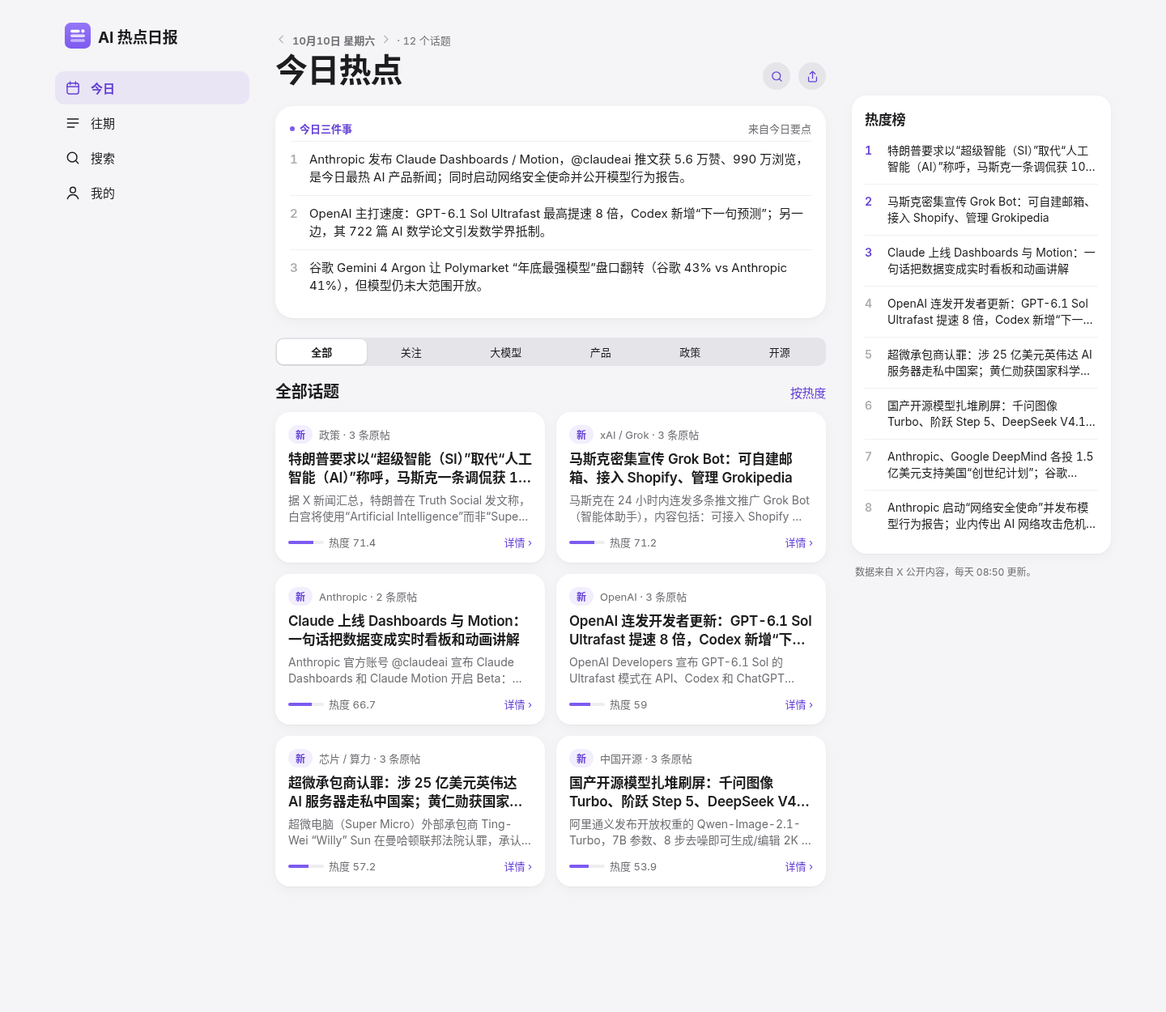
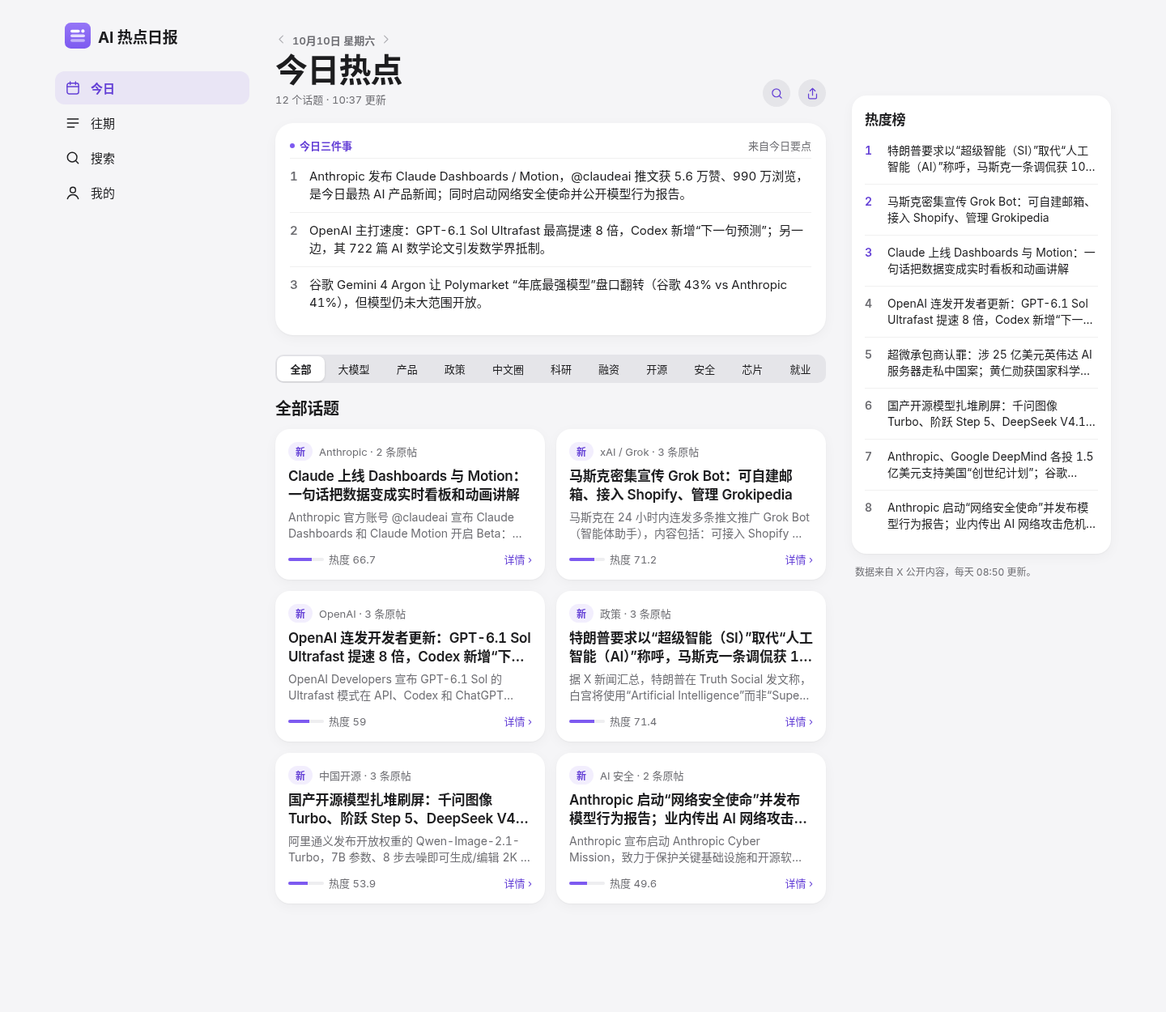
docs(design): 往期/搜索/我的 + F4、F5 设计稿 v1 (#20)
* docs(design): 往期/搜索/我的 + F4 关注、F5 周报设计稿 v1；首页去掉'按热度'改按 rank (refs #11 #12)

* docs(design): 往期空状态里的最早日期改为动态读取 (refs #11 #12)

* docs(design): #20 复核修改：补 404 两种状态；说明文字改 text-2，灰底文字 #636369；删除热门搜索词；mockup 日期改为从数据计算 (refs #11 #12)

* docs(design): 新增 text-on-fill token（浅 #636369 / 深 #A1A1A6）；标签栏选中文字用 brand-text；text-3 不再用于文字

* docs(design): 高保真首页卡片按 rank 排序（热度榜仍按 heat），重新生成首页基准截图

* docs(design): mockup 对齐 token 规范（底栏选中 brand-text、序号 text-2、灰底文字 text-on-fill），首页筛选和话题数与 F1 对齐，重新生成全部基准截图

* docs(design): 搜索框清除按钮底圆改 text-2（与 #24 规范一致）

---------

diff --git a/docs/design/pages-mockup.html b/docs/design/pages-mockup.html
@@ -1,0 +1,143 @@
+<!doctype html><html><head><meta charset="utf-8"><style>
+*{box-sizing:border-box;margin:0;padding:0}
+:root{--bg:#F5F5F7;--surface:#fff;--s2:rgba(118,118,128,.12);--sep:rgba(0,0,0,.06);--text:#1D1D1F;--t2:#6E6E73;--t3:#AEAEB2;--brand:#7D5AF0;--bt:#6440D6;--bs:rgba(125,90,240,.10);--onb:#fff;--hot:#FF9500;--ht:#B45309;--up:#34C759;--ut:#1F7A36;--sh:0 1px 2px rgba(0,0,0,.04),0 4px 16px rgba(0,0,0,.04);--nav:rgba(245,245,247,.82);--segon:#fff}
+.dark{--bg:#000;--surface:#1C1C1E;--s2:rgba(118,118,128,.24);--sep:rgba(255,255,255,.08);--text:#F5F5F7;--t2:#98989D;--t3:#636366;--brand:#A88BFF;--bt:#A88BFF;--bs:rgba(168,139,255,.18);--onb:#1C1C1E;--hot:#FF9F0A;--ht:#FF9F0A;--up:#30D158;--ut:#30D158;--sh:none;--nav:rgba(0,0,0,.75);--segon:#636366}
+body{background:var(--bg);color:var(--text);font-family:"Inter","Noto Sans CJK SC",sans-serif;-webkit-font-smoothing:antialiased;font-feature-settings:"tnum"}
+.cl2{display:-webkit-box;-webkit-line-clamp:2;-webkit-box-orient:vertical;overflow:hidden}
+.ic{width:20px;height:20px;stroke:currentColor;fill:none;stroke-width:1.75;stroke-linecap:round;stroke-linejoin:round}
+.logo{display:inline-flex;align-items:center;gap:9px;font-weight:700;letter-spacing:-.3px}
+.pill{display:inline-flex;align-items:center;gap:3px;font-size:12px;font-weight:600;padding:3px 9px;border-radius:99px;white-space:nowrap}
+.new{background:var(--bs);color:var(--bt)}.hotp{background:rgba(255,149,0,.12);color:var(--ht)}
+.ibtn{width:34px;height:34px;border-radius:50%;background:var(--s2);display:flex;align-items:center;justify-content:center;color:var(--bt)}
+.eyebrow{font-size:13px;font-weight:600;color:var(--t2)}
+.lt{font-size:34px;line-height:41px;font-weight:700;letter-spacing:-.8px}
+.hero{background:var(--surface);border-radius:22px;padding:18px;box-shadow:var(--sh)}
+.hero .k{display:flex;align-items:center;justify-content:space-between;font-size:13px;font-weight:600;color:var(--bt);margin-bottom:6px}
+.hero .k span{display:flex;align-items:center;gap:6px}.hero .k i{width:6px;height:6px;border-radius:50%;background:var(--brand)}
+.hero .k em{font-style:normal;color:var(--t2);font-weight:400}
+.hero .it{display:flex;gap:12px;font-size:15px;line-height:22px;padding:11px 0;border-top:.5px solid var(--sep)}
+.hero .it:first-of-type{border:0}.hero .it b{color:var(--t2);font-weight:600;width:12px;flex:none}
+.seg{display:flex;background:var(--s2);border-radius:10px;padding:2px;overflow:hidden}
+.seg span{flex:1 0 auto;text-align:center;font-size:13px;font-weight:500;padding:6px 10px;border-radius:8px;white-space:nowrap}
+.seg .on{background:var(--segon);box-shadow:0 1px 3px rgba(0,0,0,.12);font-weight:600}
+.sec{display:flex;justify-content:space-between;align-items:baseline;font-size:20px;font-weight:700;letter-spacing:-.3px}
+.sec a{font-size:15px;font-weight:400;color:var(--bt)}
+.card{background:var(--surface);border-radius:18px;padding:16px;box-shadow:var(--sh)}
+.meta{display:flex;align-items:center;gap:8px;font-size:13px;color:var(--t2);margin-bottom:8px}
+.card h3{font-size:17px;line-height:23px;font-weight:600;letter-spacing:-.2px;margin-bottom:6px}
+.card p{font-size:14px;line-height:20px;color:var(--t2)}
+.foot{display:flex;justify-content:space-between;align-items:center;margin-top:12px;font-size:13px;color:var(--t2)}
+.heat{display:flex;align-items:center;gap:6px}.bar{width:44px;height:4px;border-radius:2px;background:var(--s2);overflow:hidden}.bar i{display:block;height:100%;background:var(--brand)}
+.more{color:var(--bt)}
+.tab{position:fixed;bottom:0;left:0;right:0;height:83px;background:var(--nav);backdrop-filter:blur(20px);border-top:.5px solid var(--sep);display:flex;justify-content:space-around;padding-top:8px;font-size:10px;font-weight:500;color:var(--t2)}
+.tab div{display:flex;flex-direction:column;align-items:center;gap:3px;width:70px}.tab .on{color:var(--bt)}.tab .on .ic{color:var(--brand)}.tab .ic{width:24px;height:24px}
+/* detail */
+.nb{display:flex;justify-content:space-between;align-items:center;height:44px}
+.back{display:flex;align-items:center;color:var(--bt);font-size:17px}
+.dt{font-size:26px;line-height:32px;font-weight:700;letter-spacing:-.5px}
+.block{background:var(--surface);border-radius:18px;padding:16px;box-shadow:var(--sh)}
+.block .lab{font-size:13px;font-weight:600;color:var(--t2);margin-bottom:6px}
+.block .txt{font-size:15px;line-height:23px}
+.first{display:flex;gap:12px;align-items:center}
+.first .dot{width:40px;height:40px;border-radius:12px;background:var(--bs);display:flex;align-items:center;justify-content:center;color:var(--bt);flex:none}
+.post{display:flex;gap:12px;padding:14px 16px;border-top:.5px solid var(--sep)}.post:first-child{border:0}
+.av{width:36px;height:36px;border-radius:50%;background:var(--s2);display:flex;align-items:center;justify-content:center;font-size:14px;font-weight:700;color:var(--tof);flex:none}
+.post .h{font-size:14px;font-weight:600}.post .h span{font-weight:400;color:var(--t2);margin-left:4px}
+.post .tr{font-size:15px;line-height:22px;margin-top:3px}
+.post .st{display:flex;gap:14px;font-size:12px;color:var(--t2);margin-top:8px}
+.btn{display:flex;align-items:center;justify-content:center;gap:6px;height:50px;border-radius:14px;font-size:17px;font-weight:600}
+.btn.p{background:var(--brand);color:var(--onb)}.btn.s{background:var(--bs);color:var(--bt)}
+.chips{display:flex;gap:8px;flex-wrap:wrap}.chip{font-size:14px;padding:8px 12px;border-radius:12px;background:var(--surface);box-shadow:var(--sh);display:flex;align-items:center;gap:6px}
+/* desktop */
+.dk{display:grid;grid-template-columns:240px 680px 320px;gap:32px;justify-content:center;padding:0 24px}
+.side{position:sticky;top:0;height:100vh;padding:28px 0}
+.nav a{display:flex;align-items:center;gap:12px;padding:10px 12px;border-radius:12px;font-size:15px;font-weight:500;margin-bottom:2px}
+.nav a.on{background:var(--bs);color:var(--bt);font-weight:600}
+.rank .r{display:flex;gap:12px;padding:11px 0;border-top:.5px solid var(--sep);font-size:14px;line-height:20px}.rank .r:first-of-type{border:0}
+.rank b{width:16px;color:var(--t2);font-weight:600}.rank .r:nth-of-type(-n+3) b{color:var(--bt)}
+
+.lrow{display:flex;align-items:center;gap:12px;padding:13px 16px;border-top:.5px solid var(--sep);font-size:15px}.lrow:first-child{border:0}
+.lrow .sub{font-size:13px;color:var(--t2)}.lrow .r{margin-left:auto;color:var(--t3);display:flex;align-items:center;gap:6px;font-size:15px}
+.grp{font-size:13px;font-weight:600;color:var(--t2);margin:22px 4px 8px}
+.ico{width:30px;height:30px;border-radius:8px;display:flex;align-items:center;justify-content:center;color:#fff;flex:none}
+.sf{display:flex;align-items:center;gap:8px;background:var(--s2);border-radius:12px;height:40px;padding:0 12px;color:var(--tof);font-size:16px}
+mark{background:var(--bs);color:var(--bt);border-radius:4px;padding:0 2px}
+.stk{display:flex;height:14px;border-radius:7px;overflow:hidden;gap:2px}
+.tg{display:inline-flex;align-items:center;gap:6px;font-size:14px;padding:7px 12px;border-radius:99px;background:var(--surface);box-shadow:var(--sh)}
+.sheet{position:fixed;left:0;right:0;bottom:0;background:var(--surface);border-radius:22px 22px 0 0;padding:10px 18px 40px}
+.input{height:46px;border-radius:12px;background:var(--s2);display:flex;align-items:center;padding:0 14px;font-size:16px}
+.followhl{box-shadow:inset 0 0 0 1.5px var(--brand),var(--sh)}
+:root{--tof:#636369}.dark{--tof:#A1A1A6}
+</style></head><body><div id="app"></div><script>
+const Q=new URLSearchParams(location.search),view=Q.get('v')||'home',dark=Q.get('t')==='dark';if(dark)document.body.classList.add('dark');
+const I={search:'<circle cx="11" cy="11" r="7"/><path d="M20 20l-3.5-3.5"/>',share:'<path d="M12 3v12M7.5 7.5L12 3l4.5 4.5M5 13v6a2 2 0 002 2h10a2 2 0 002-2v-6"/>',today:'<rect x="3.5" y="4.5" width="17" height="16" rx="3"/><path d="M3.5 9.5h17M8 2.5v4M16 2.5v4"/>',past:'<path d="M4 6h16M4 12h16M4 18h10"/>',me:'<circle cx="12" cy="8" r="4"/><path d="M4 21c1.5-4 4.5-6 8-6s6.5 2 8 6"/>',back:'<path d="M15 5l-7 7 7 7"/>',chev:'<path d="M9 5l7 7-7 7"/>',spark:'<path d="M12 3v4M12 17v4M3 12h4M17 12h4"/>',star:'<path d="M12 3.5l2.6 5.3 5.9.9-4.3 4.1 1 5.8L12 16.9l-5.2 2.7 1-5.8L3.5 9.7l5.9-.9z"/>',bm:'<path d="M6 3.5h12v17l-6-4-6 4z"/>',link:'<path d="M10 14a4 4 0 005.7 0l3-3a4 4 0 00-5.7-5.7l-1 1M14 10a4 4 0 00-5.7 0l-3 3a4 4 0 005.7 5.7l1-1"/>',img:'<rect x="3.5" y="4.5" width="17" height="15" rx="3"/><circle cx="9" cy="10" r="1.8"/><path d="M20.5 16l-5-5-8 8.5"/>',ext:'<path d="M14 4h6v6M20 4l-9 9M18 14v5a1 1 0 01-1 1H5a1 1 0 01-1-1V7a1 1 0 011-1h5"/>'};
+const ic=(n,s='')=>`<svg class="ic" style="${s}" viewBox="0 0 24 24">${I[n]}</svg>`;
+const logo=(s)=>`<svg width="${s}" height="${s}" viewBox="0 0 100 100"><defs><linearGradient id="lg" x1="0" y1="0" x2="0" y2="1"><stop offset="0" stop-color="#9576F7"/><stop offset="1" stop-color="#7D5AF0"/></linearGradient></defs><rect width="100" height="100" rx="23" fill="url(#lg)"/><rect x="22" y="27" width="36" height="11" rx="5.5" fill="#fff"/><circle cx="70" cy="32.5" r="6.5" fill="#fff"/><rect x="22" y="45" width="56" height="11" rx="5.5" fill="#fff" fill-opacity=".78"/><rect x="22" y="63" width="56" height="11" rx="5.5" fill="#fff" fill-opacity=".5"/></svg>`;
+const fmt=n=>n>=1e4?(n/1e4).toFixed(n>=1e5?0:1)+' 万':n.toLocaleString();
+
+const CC={'大模型':'#7D5AF0','产品':'#34C759','政策':'#FF9500','中文圈':'#FF2D55','科研':'#5AC8FA','融资':'#AF52DE','开源':'#30B0C7','安全':'#FF3B30','芯片':'#A2845E','就业':'#8E8E93'};
+fetch('../../data/2026-10-10.json').then(r=>r.json()).then(d=>{
+ const S=d.stories;const [Y,Mo,Da]=d.date.split('-').map(Number);const dt=new Date(Date.UTC(Y,Mo-1,Da));const WDN='日一二三四五六';const MD=`${Mo}月${Da}日`,WD='星期'+WDN[dt.getUTCDay()],WS='周'+WDN[dt.getUTCDay()];
+ const dow=(dt.getUTCDay()+6)%7;const mon=new Date(dt-dow*864e5),sun=new Date(+mon+6*864e5);const th=new Date(+dt+(3-dow)*864e5);const wk=1+Math.round((th-Date.UTC(th.getUTCFullYear(),0,4))/864e5/7-(3-((new Date(Date.UTC(th.getUTCFullYear(),0,4)).getUTCDay()+6)%7))/7);const fm=x=>`${x.getUTCMonth()+1}月${x.getUTCDate()}日`;const EARLY=MD;
+ const tab=(on)=>`<div class="tab">${[['today','今日'],['past','往期'],['search','搜索'],['me','我的']].map(([i,n])=>`<div class="${n===on?'on':''}">${ic(i)}${n}</div>`).join('')}</div>`;
+ const top=(t,sub)=>`<div class="lt" style="margin:0 0 ${sub?2:16}px">${t}</div>${sub?`<div style="font-size:13px;color:var(--t2);margin-bottom:16px">${sub}</div>`:''}`;
+ const seg3=on=>`<div class="seg" style="margin-bottom:18px">${['日报','趋势','周报'].map(x=>`<span class="${x===on?'on':''}">${x}</span>`).join('')}</div>`;
+ const mini=(s,extra='')=>`<div class="card ${extra}" style="padding:14px 16px"><div class="meta" style="margin-bottom:6px">${extra?'<span class="pill new">'+ic('star','width:12px;height:12px')+' 关注</span>':'<span class="pill new">新</span>'}${s.org_tag} · ${MD}</div><h3 class="cl2" style="font-size:16px;line-height:22px;margin:0">${s.headline_zh}</h3></div>`;
+ let h='';
+ const v=view;
+ if(v==='archive'){h=`<div style="padding:54px 18px 110px">${top('往期')}${seg3('日报')}
+  <div class="grp">${Y} 年 ${Mo} 月</div><div class="block" style="padding:0">
+  <div class="lrow"><div style="width:44px;text-align:center"><div style="font-size:22px;font-weight:700;line-height:1">${Da}</div><div style="font-size:11px;color:var(--t2)">${WS}</div></div><div style="flex:1;min-width:0"><div style="font-weight:600">今日三件事 · ${S.length} 个话题</div><div class="sub cl2" style="margin-top:2px">${d.highlights[0]}</div></div><span class="r">${ic('chev','width:15px;height:15px')}</span></div></div>
+  <div style="text-align:center;font-size:13px;color:var(--t2);margin-top:18px;line-height:20px">日报从 ${EARLY.replace("月"," 月 ").replace("日"," 日")}开始，每天 08:50 左右更新。<br>满两天以后，可以在"趋势"里看热度变化。</div></div>${tab('往期')}`}
+ if(v==='trend'){const cats={};S.forEach(s=>s.categories.forEach(c=>cats[c]=(cats[c]||0)+1));const cs=Object.entries(cats).sort((a,b)=>b[1]-a[1]);const tot=cs.reduce((a,b)=>a+b[1],0);
+  const tops={};S.forEach(s=>s.topics.forEach(t=>tops[t]=(tops[t]||0)+1));const ts=Object.entries(tops).sort((a,b)=>b[1]-a[1]).slice(0,6);
+  h=`<div style="padding:54px 18px 110px">${top('往期')}${seg3('趋势')}
+  <div class="block" style="margin-bottom:12px"><div class="lab">每日分类分布</div><div style="display:flex;align-items:center;gap:10px;margin-top:8px"><span style="font-size:13px;color:var(--t2);width:40px">10/10</span><div class="stk" style="flex:1">${cs.map(([c,n])=>`<i style="flex:${n};background:${CC[c]||'#8E8E93'}"></i>`).join('')}</div></div>
+  <div style="display:flex;flex-wrap:wrap;gap:6px 14px;margin-top:14px">${cs.map(([c,n])=>`<span style="font-size:12px;color:var(--t2);display:flex;align-items:center;gap:5px"><i style="width:8px;height:8px;border-radius:50%;background:${CC[c]||'#8E8E93'}"></i>${c} ${n}</span>`).join('')}</div>
+  <div style="font-size:12px;color:var(--t2);margin-top:12px">目前只有 1 天数据，每多一天就多一行。</div></div>
+  <div class="block" style="padding:0;margin-bottom:12px"><div class="lab" style="padding:14px 16px 0">分类累计</div>${cs.slice(0,5).map(([c,n])=>`<div class="lrow"><i style="width:10px;height:10px;border-radius:3px;background:${CC[c]}"></i>${c}<span class="r" style="color:var(--t2)">${n} 个话题 · ${Math.round(n/tot*100)}%</span></div>`).join('')}</div>
+  <div class="block" style="padding:0"><div class="lab" style="padding:14px 16px 0">高频话题词</div>${ts.map(([t,n])=>`<div class="lrow">${t}<span class="r" style="color:var(--t2)">${n} 次</span></div>`).join('')}</div></div>${tab('往期')}`}
+ if(v==='weekly'){const T=[...S].sort((a,b)=>b.heat-a.heat).slice(0,10);
+  h=`<div style="padding:54px 18px 110px">${top('往期')}${seg3('周报')}
+  <div style="display:flex;align-items:center;justify-content:space-between;margin-bottom:14px"><span style="color:var(--t3)">${ic('back','width:20px;height:20px')}</span><div style="text-align:center"><div style="font-size:17px;font-weight:700">${th.getUTCFullYear()} 年第 ${wk} 周</div><div style="font-size:13px;color:var(--t2)">${fm(mon)} – ${fm(sun)} · <span style="color:var(--bt);font-weight:600">截至今天</span></div></div><span style="color:var(--t3);opacity:.4">${ic('chev','width:20px;height:20px')}</span></div>
+  <div class="sec" style="font-size:17px;margin-bottom:10px">本周 Top 10</div>
+  <div class="block" style="padding:0;margin-bottom:22px">${T.map((s,i)=>`<div class="lrow" style="align-items:flex-start"><b style="width:18px;color:${i<3?'var(--bt)':'var(--t2)'};font-weight:700">${i+1}</b><div style="flex:1;min-width:0"><div class="cl2" style="font-size:15px;line-height:21px">${s.headline_zh}</div><div class="sub" style="margin-top:3px">${s.org_tag} · ${MD} · 热度 ${s.heat}</div></div></div>`).join('')}</div>
+  <div class="sec" style="font-size:17px;margin-bottom:10px">反复出现的话题</div>
+  <div class="block"><div class="first"><div class="dot">${ic('spark')}</div><div><div style="font-size:15px;font-weight:600">本周还没有反复出现的话题</div><div style="font-size:13px;color:var(--t2);margin-top:2px">同一个话题在 2 天及以上出现过，才会列在这里</div></div></div></div>
+  <div class="btn s" style="margin-top:16px">${ic('img')}保存周报图</div></div>${tab('往期')}`}
+ if(v==='search'){const q='Claude';const R=S.filter(s=>(s.headline_zh+s.summary_zh+s.topics.join()).includes(q));const hl=t=>t.split(q).join('<mark>'+q+'</mark>');
+  h=`<div style="padding:54px 18px 110px">${top('搜索')}<div class="sf" style="margin-bottom:12px;color:var(--text)">${ic('search','width:17px;height:17px;color:var(--t2)')}${q}<span style="margin-left:auto;width:18px;height:18px;border-radius:50%;background:var(--t2);color:var(--surface);display:flex;align-items:center;justify-content:center;font-size:11px">✕</span></div>
+  <div style="display:flex;gap:8px;margin-bottom:16px;flex-wrap:wrap"><span class="pill" style="background:var(--text);color:var(--bg);padding:5px 12px">全部 ${R.length}</span><span class="pill" style="background:var(--s2);color:var(--tof);padding:5px 12px">产品</span><span class="pill" style="background:var(--s2);color:var(--tof);padding:5px 12px">大模型</span><span class="pill" style="background:var(--s2);color:var(--tof);padding:5px 12px">安全</span></div>
+  <div style="font-size:13px;color:var(--t2);margin:0 4px 10px">找到 ${R.length} 个话题，范围是全部日期</div>
+  <div style="display:grid;gap:12px">${R.map(s=>`<div class="card"><div class="meta">${s.org_tag} · ${MD}</div><h3 class="cl2">${hl(s.headline_zh)}</h3><p class="cl2">${hl(s.summary_zh)}</p></div>`).join('')}</div></div>${tab('搜索')}`}
+ if(v==='searchempty'){h=`<div style="padding:54px 18px 110px">${top('搜索')}<div class="sf" style="margin-bottom:22px">${ic('search','width:17px;height:17px')}搜索话题、机构、账号</div>
+  <div style="text-align:center;font-size:15px;color:var(--t2);line-height:22px;margin-top:40px">搜索全部日期的话题标题、摘要、<br>机构和 X 账号</div></div>${tab('搜索')}`}
+ if(v==='me'){h=`<div style="padding:54px 18px 110px">${top('我的')}
+  <div class="block" style="padding:0"><div class="lrow"><div class="ico" style="background:#FF9500">${ic('bm','width:17px;height:17px')}</div><div>收藏</div><span class="r"><span style="color:var(--t2)">2</span>${ic('chev','width:15px;height:15px')}</span></div>
+  <div class="lrow"><div class="ico" style="background:#7D5AF0">${ic('star','width:17px;height:17px')}</div><div>关注</div><span class="r"><span style="color:var(--t2)">3</span>${ic('chev','width:15px;height:15px')}</span></div></div>
+  <div class="grp">我的关注</div><div style="display:flex;flex-wrap:wrap;gap:8px"><span class="tg"><span style="color:var(--t2);font-size:12px">机构</span>Anthropic</span><span class="tg"><span style="color:var(--t2);font-size:12px">关键词</span>Codex</span><span class="tg"><span style="color:var(--t2);font-size:12px">账号</span>@claudeai</span><span class="tg" style="color:var(--bt);box-shadow:none;background:var(--bs)">＋ 添加</span></div>
+  <div class="grp">设置</div><div class="block" style="padding:0"><div class="lrow">外观<span class="r" style="color:var(--text)"><span class="seg" style="width:150px">${dark?"<span>浅色</span><span class=\"on\">深色</span>":"<span class=\"on\">浅色</span><span>深色</span>"}</span></span></div>
+  <div class="lrow"><div>导出数据<div class="sub">下载全部日报的 JSON</div></div><span class="r">${ic('chev','width:15px;height:15px')}</span></div>
+  <div class="lrow"><div>关于 AI 热点日报<div class="sub">数据来源与更新时间</div></div><span class="r">${ic('chev','width:15px;height:15px')}</span></div></div>
+  <div style="font-size:12px;color:var(--t2);margin:14px 4px;line-height:18px">收藏和关注只保存在这台设备的浏览器里，换设备不会同步。</div></div>${tab('我的')}`}
+ if(v==='follow'){const F=S.filter(s=>s.org_tag==='Anthropic'||JSON.stringify(s).toLowerCase().includes('codex')||s.source_posts.some(p=>p.handle==='claudeai'));
+  h=`<div style="padding:54px 18px 110px"><div class="eyebrow">${MD} ${WD}</div>${top('今日热点')}
+  <div class="seg" style="margin-bottom:12px"><span>全部</span><span class="on">关注 ${F.length}</span><span>大模型</span><span>产品</span><span>政策</span></div>
+  <div style="display:flex;align-items:center;gap:6px;font-size:13px;color:var(--t2);margin:0 4px 12px">只看关注：Anthropic、Codex、@claudeai<span style="margin-left:auto;color:var(--bt)">管理</span></div>
+  <div style="display:grid;gap:12px">${F.map(s=>{const why=s.org_tag==='Anthropic'?'Anthropic':(s.source_posts.some(p=>p.handle==='claudeai')?'@claudeai':'Codex');return `<div class="card followhl"><div class="meta"><span class="pill new">${ic('star','width:12px;height:12px')} ${why}</span>${s.org_tag} · ${s.source_posts.length} 条原帖</div><h3 class="cl2">${s.headline_zh}</h3><p class="cl2">${s.summary_zh}</p></div>`}).join('')}</div></div>${tab('今日')}`}
+ if(v==='addfollow'){h=`<div style="padding:54px 18px 110px;filter:none">${top('我的')}<div class="block" style="height:200px"></div></div><div style="position:fixed;inset:0;background:rgba(0,0,0,.32)"></div>
+  <div class="sheet"><div style="width:36px;height:5px;border-radius:3px;background:var(--t3);margin:0 auto 16px;opacity:.6"></div>
+  <div style="display:flex;justify-content:space-between;align-items:center;margin-bottom:16px"><span style="color:var(--bt);font-size:17px">取消</span><b style="font-size:17px">添加关注</b><span style="color:var(--bt);font-size:17px;font-weight:600">完成</span></div>
+  <div class="seg" style="margin-bottom:14px"><span>账号</span><span>机构</span><span class="on">关键词</span></div>
+  <div class="input" style="margin-bottom:8px">Gemini<span style="margin-left:auto;width:2px;height:22px;background:var(--brand)"></span></div>
+  <div style="font-size:13px;color:var(--t2);margin:0 4px 18px">会匹配标题、摘要、话题词和原帖内容，不区分大小写。</div>
+  <div class="grp" style="margin-top:0">今天出现过的机构</div><div style="display:flex;flex-wrap:wrap;gap:8px">${[...new Set(S.map(s=>s.org_tag))].slice(0,8).map(o=>`<span class="tg" style="background:var(--s2);box-shadow:none">${o}</span>`).join('')}</div>
+  <div style="font-size:12px;color:var(--t2);margin:16px 4px 0">已关注 3 个，最多 50 个</div></div>`}
+ if(v==='followempty'){h=`<div style="padding:54px 18px 110px"><div class="eyebrow">${MD} ${WD}</div>${top('今日热点')}
+  <div class="seg" style="margin-bottom:40px"><span>全部</span><span class="on">关注</span><span>大模型</span><span>产品</span><span>政策</span></div>
+  <div style="text-align:center;padding:0 24px"><div style="width:64px;height:64px;border-radius:18px;background:var(--bs);color:var(--bt);display:flex;align-items:center;justify-content:center;margin:0 auto 16px">${ic('star','width:30px;height:30px')}</div><div style="font-size:20px;font-weight:700;margin-bottom:6px">还没有关注任何内容</div><div style="font-size:15px;color:var(--t2);line-height:22px;margin-bottom:20px">关注账号、机构或关键词，相关话题会在首页高亮，也可以在这里只看它们。</div><div class="btn p" style="width:200px;margin:0 auto">添加关注</div></div></div>${tab('今日')}`}
+
+ if(v==='nf-day'||v==='nf-story'){const day=v==='nf-day';h=`<div style="padding:54px 18px 110px"><div style="text-align:center;padding:120px 24px 0"><div style="width:64px;height:64px;border-radius:18px;background:var(--bs);color:var(--bt);display:flex;align-items:center;justify-content:center;margin:0 auto 16px">${ic(day?'today':'search','width:30px;height:30px')}</div><div style="font-size:20px;font-weight:700;margin-bottom:6px">${day?'这一天没有日报':'找不到这个话题'}</div><div style="font-size:15px;color:var(--t2);line-height:22px;margin-bottom:24px">${day?`日报从 ${EARLY} 开始，每天早上更新`:'链接可能写错了，或者这个话题已经不在了'}</div><div class="btn p" style="width:200px;margin:0 auto">回到今日</div>${day?'<div class="btn s" style="width:200px;margin:10px auto 0">看往期</div>':''}</div></div>${tab('')}`}
+ document.getElementById('app').innerHTML=h;
+});
+</script></body></html>

diff --git a/docs/design/hifi-mockup.html b/docs/design/hifi-mockup.html
@@ -16,7 +16,7 @@ body{background:var(--bg);color:var(--text);font-family:"Inter","Noto Sans CJK S
 .hero .k span{display:flex;align-items:center;gap:6px}.hero .k i{width:6px;height:6px;border-radius:50%;background:var(--brand)}
 .hero .k em{font-style:normal;color:var(--t2);font-weight:400}
 .hero .it{display:flex;gap:12px;font-size:15px;line-height:22px;padding:11px 0;border-top:.5px solid var(--sep)}
-.hero .it:first-of-type{border:0}.hero .it b{color:var(--t3);font-weight:600;width:12px;flex:none}
+.hero .it:first-of-type{border:0}.hero .it b{color:var(--t2);font-weight:600;width:12px;flex:none}
 .seg{display:flex;background:var(--s2);border-radius:10px;padding:2px;overflow:hidden}
 .seg span{flex:1 0 auto;text-align:center;font-size:13px;font-weight:500;padding:6px 10px;border-radius:8px;white-space:nowrap}
 .seg .on{background:var(--segon);box-shadow:0 1px 3px rgba(0,0,0,.12);font-weight:600}
@@ -30,7 +30,7 @@ body{background:var(--bg);color:var(--text);font-family:"Inter","Noto Sans CJK S
 .heat{display:flex;align-items:center;gap:6px}.bar{width:44px;height:4px;border-radius:2px;background:var(--s2);overflow:hidden}.bar i{display:block;height:100%;background:var(--brand)}
 .more{color:var(--bt)}
 .tab{position:fixed;bottom:0;left:0;right:0;height:83px;background:var(--nav);backdrop-filter:blur(20px);border-top:.5px solid var(--sep);display:flex;justify-content:space-around;padding-top:8px;font-size:10px;font-weight:500;color:var(--t2)}
-.tab div{display:flex;flex-direction:column;align-items:center;gap:3px;width:70px}.tab .on{color:var(--brand)}.tab .ic{width:24px;height:24px}
+.tab div{display:flex;flex-direction:column;align-items:center;gap:3px;width:70px}.tab .on{color:var(--bt)}.tab .on .ic{color:var(--brand)}.tab .ic{width:24px;height:24px}
 /* detail */
 .nb{display:flex;justify-content:space-between;align-items:center;height:44px}
 .back{display:flex;align-items:center;color:var(--bt);font-size:17px}
@@ -41,7 +41,7 @@ body{background:var(--bg);color:var(--text);font-family:"Inter","Noto Sans CJK S
 .first{display:flex;gap:12px;align-items:center}
 .first .dot{width:40px;height:40px;border-radius:12px;background:var(--bs);display:flex;align-items:center;justify-content:center;color:var(--bt);flex:none}
 .post{display:flex;gap:12px;padding:14px 16px;border-top:.5px solid var(--sep)}.post:first-child{border:0}
-.av{width:36px;height:36px;border-radius:50%;background:var(--s2);display:flex;align-items:center;justify-content:center;font-size:14px;font-weight:700;color:var(--t2);flex:none}
+.av{width:36px;height:36px;border-radius:50%;background:var(--s2);display:flex;align-items:center;justify-content:center;font-size:14px;font-weight:700;color:var(--tof);flex:none}
 .post .h{font-size:14px;font-weight:600}.post .h span{font-weight:400;color:var(--t2);margin-left:4px}
 .post .tr{font-size:15px;line-height:22px;margin-top:3px}
 .post .st{display:flex;gap:14px;font-size:12px;color:var(--t2);margin-top:8px}
@@ -54,7 +54,8 @@ body{background:var(--bg);color:var(--text);font-family:"Inter","Noto Sans CJK S
 .nav a{display:flex;align-items:center;gap:12px;padding:10px 12px;border-radius:12px;font-size:15px;font-weight:500;margin-bottom:2px}
 .nav a.on{background:var(--bs);color:var(--bt);font-weight:600}
 .rank .r{display:flex;gap:12px;padding:11px 0;border-top:.5px solid var(--sep);font-size:14px;line-height:20px}.rank .r:first-of-type{border:0}
-.rank b{width:16px;color:var(--t3);font-weight:600}.rank .r:nth-of-type(-n+3) b{color:var(--bt)}
+.rank b{width:16px;color:var(--t2);font-weight:600}.rank .r:nth-of-type(-n+3) b{color:var(--bt)}
+:root{--tof:#636369}.dark{--tof:#A1A1A6}
 </style></head><body><div id="app"></div>
 <script>
 const Q=new URLSearchParams(location.search),view=Q.get('v')||'home',dark=Q.get('t')==='dark';if(dark)document.body.classList.add('dark');
@@ -63,14 +64,14 @@ const ic=(n,s='')=>`<svg class="ic" style="${s}" viewBox="0 0 24 24">${I[n]}</sv
 const logo=(s)=>`<svg width="${s}" height="${s}" viewBox="0 0 100 100"><defs><linearGradient id="lg" x1="0" y1="0" x2="0" y2="1"><stop offset="0" stop-color="#9576F7"/><stop offset="1" stop-color="#7D5AF0"/></linearGradient></defs><rect width="100" height="100" rx="23" fill="url(#lg)"/><rect x="22" y="27" width="36" height="11" rx="5.5" fill="#fff"/><circle cx="70" cy="32.5" r="6.5" fill="#fff"/><rect x="22" y="45" width="56" height="11" rx="5.5" fill="#fff" fill-opacity=".78"/><rect x="22" y="63" width="56" height="11" rx="5.5" fill="#fff" fill-opacity=".5"/></svg>`;
 const fmt=n=>n>=1e4?(n/1e4).toFixed(n>=1e5?0:1)+' 万':n.toLocaleString();
 fetch('../../data/2026-10-10.json').then(r=>r.json()).then(d=>{
- const S=[...d.stories].sort((a,b)=>b.heat-a.heat),H=d.highlights.slice(0,3);
- const cats=['全部','关注','大模型','产品','政策','开源'];
+ const S=d.stories,SH=[...d.stories].sort((a,b)=>b.heat-a.heat),H=d.highlights.slice(0,3);
+ const cc={};d.stories.forEach(s=>s.categories.forEach(c=>cc[c]=(cc[c]||0)+1));const cats=['全部',...Object.keys(cc).sort((a,b)=>cc[b]-cc[a])];
  const hero=`<div class="hero"><div class="k"><span><i></i>今日三件事</span><em>来自今日要点</em></div>${H.map((h,i)=>`<div class="it"><b>${i+1}</b><span>${h}</span></div>`).join('')}</div>`;
  const card=s=>`<div class="card"><div class="meta"><span class="pill new">新</span>${s.org_tag} · ${s.source_posts.length} 条原帖</div><h3 class="cl2">${s.headline_zh}</h3><p class="cl2">${s.summary_zh}</p><div class="foot"><span class="heat"><span class="bar"><i style="width:${s.heat}%"></i></span>热度 ${s.heat}</span><span class="more">详情 ›</span></div></div>`;
  const seg=`<div class="seg">${cats.map((c,i)=>`<span class="${i?'':'on'}">${c}</span>`).join('')}</div>`;
  const tab=`<div class="tab"><div class="on">${ic('today')}今日</div><div>${ic('past')}往期</div><div>${ic('search')}搜索</div><div>${ic('me')}我的</div></div>`;
  const s0=S.find(s=>s.id.includes('openai-gpt61'))||S[0];
- const detailBody=(s)=>`<div style="display:flex;gap:6px;margin:6px 0 10px"><span class="pill new">新</span>${s.categories.map(c=>`<span class="pill" style="background:var(--s2);color:var(--t2)">${c}</span>`).join('')}</div>
+ const detailBody=(s)=>`<div style="display:flex;gap:6px;margin:6px 0 10px"><span class="pill new">新</span>${s.categories.map(c=>`<span class="pill" style="background:var(--s2);color:var(--tof)">${c}</span>`).join('')}</div>
   <div class="dt">${s.headline_zh}</div><div style="font-size:13px;color:var(--t2);margin:8px 0 16px">${s.org_tag} · ${s.source_posts.length} 条原帖 · 10月10日</div>
   <div class="block" style="margin-bottom:12px"><div class="lab">摘要</div><div class="txt">${s.summary_zh}</div></div>
   <div class="block" style="margin-bottom:12px"><div class="lab">为什么重要</div><div class="txt">${s.why_it_matters}</div></div>
@@ -78,18 +79,18 @@ fetch('../../data/2026-10-10.json').then(r=>r.json()).then(d=>{
   <div class="sec" style="font-size:17px;margin-bottom:10px">原帖 <span style="font-size:13px;font-weight:400;color:var(--t2)">${s.source_posts.length} 条</span></div>
   <div class="block" style="padding:0;margin-bottom:24px">${s.source_posts.map(p=>`<div class="post"><div class="av">${p.handle[0].toUpperCase()}</div><div style="flex:1"><div class="h">@${p.handle}</div><div class="tr">${(p.translation_zh||p.text).replace(/^“|”$/g,'')}</div><div class="st"><span>${fmt(p.likes)} 赞</span><span>${fmt(p.reposts)} 转发</span><span>${fmt(p.views)} 浏览</span><span class="more" style="margin-left:auto;display:flex;align-items:center;gap:3px">原帖 ${ic('ext','width:13px;height:13px')}</span></div></div></div>`).join('')}</div>
   ${s.news_refs.length?`<div class="sec" style="font-size:17px;margin-bottom:10px">相关新闻</div><div class="block" style="padding:0;margin-bottom:24px">${s.news_refs.map((u,i)=>`<div class="post" style="align-items:center"><div class="av" style="border-radius:10px">${ic('link','width:17px;height:17px')}</div><div style="flex:1;font-size:15px">X 新闻 ${i+1}<div style="font-size:12px;color:var(--t2)">${u.replace('https://','').slice(0,34)}…</div></div><span style="color:var(--t3)">${ic('chev','width:16px;height:16px')}</span></div>`).join('')}</div>`:''}
-  ${s.data_quality?`<div style="display:flex;gap:8px;font-size:13px;line-height:19px;color:var(--t2);background:var(--s2);border-radius:14px;padding:12px 14px;margin-bottom:24px"><span style="font-weight:600;white-space:nowrap">数据说明</span><span>${s.data_quality}</span></div>`:''}
+  ${s.data_quality?`<div style="display:flex;gap:8px;font-size:13px;line-height:19px;color:var(--tof);background:var(--s2);border-radius:14px;padding:12px 14px;margin-bottom:24px"><span style="font-weight:600;white-space:nowrap">数据说明</span><span>${s.data_quality}</span></div>`:''}
   <div class="sec" style="font-size:17px;margin-bottom:10px">关联话题</div>
   <div class="chips" style="margin-bottom:24px">${S.filter(x=>x!==s&&x.categories.some(c=>s.categories.includes(c))).slice(0,5).map(x=>`<span class="chip">${x.org_tag} <span style="color:var(--t3)">›</span></span>`).join('')}</div>`;
  let h='';
  if(view==='home'){h=`<div style="padding:54px 18px 110px"><div style="display:flex;justify-content:space-between;align-items:center"><span class="eyebrow" style="display:flex;align-items:center;gap:6px"><span style="color:var(--t3)">${ic('back','width:15px;height:15px')}</span>10月10日 星期六<span style="color:var(--t3)">${ic('chev','width:15px;height:15px')}</span></span><div style="display:flex;gap:10px"><span class="ibtn">${ic('share','width:17px;height:17px')}</span></div></div>
-  <div class="lt" style="margin:4px 0 2px">今日热点</div><div style="font-size:13px;color:var(--t2);margin-bottom:16px">${S.length} 个话题 · ${d.generated_at.slice(11,16)} 更新</div>${hero}<div style="margin:20px 0 16px">${seg}</div><div class="sec" style="margin-bottom:10px">全部话题<a>按热度</a></div><div style="display:grid;gap:12px">${S.slice(0,4).map(card).join('')}</div></div>${tab}`}
+  <div class="lt" style="margin:4px 0 2px">今日热点</div><div style="font-size:13px;color:var(--t2);margin-bottom:16px">${S.length} 个话题 · ${d.generated_at.slice(11,16)} 更新</div>${hero}<div style="margin:20px 0 16px">${seg}</div><div class="sec" style="margin-bottom:10px">全部话题</div><div style="display:grid;gap:12px">${S.slice(0,4).map(card).join('')}</div></div>${tab}`}
  if(view==='detail'){h=`<div style="padding:48px 18px 120px"><div class="nb"><span class="back">${ic('back','width:22px;height:22px')}今日热点</span><div style="display:flex;gap:10px"><span class="ibtn">${ic('bm','width:17px;height:17px')}</span><span class="ibtn">${ic('share','width:17px;height:17px')}</span></div></div>${detailBody(s0)}
   <div style="display:grid;grid-template-columns:1fr 1fr;gap:10px"><div class="btn s">${ic('link')}复制链接</div><div class="btn p">${ic('img')}保存分享图</div></div></div>`}
  if(view==='desk'){h=`<div class="dk"><aside class="side"><div class="logo" style="font-size:19px;margin:0 0 28px 12px">${logo(32)}AI 热点日报</div><nav class="nav"><a class="on">${ic('today')}今日</a><a>${ic('past')}往期</a><a>${ic('search')}搜索</a><a>${ic('me')}我的</a></nav></aside>
-  <main style="padding:40px 0 60px"><div style="display:flex;justify-content:space-between;align-items:flex-end;margin-bottom:20px"><div><div class="eyebrow" style="display:flex;align-items:center;gap:6px"><span style="color:var(--t3)">${ic('back','width:15px;height:15px')}</span>10月10日 星期六<span style="color:var(--t3)">${ic('chev','width:15px;height:15px')}</span><span style="font-weight:400">· ${S.length} 个话题</span></div><div class="lt" style="font-size:40px;line-height:48px;margin-top:4px">今日热点</div></div><div style="display:flex;gap:10px"><span class="ibtn">${ic('search','width:17px;height:17px')}</span><span class="ibtn">${ic('share','width:17px;height:17px')}</span></div></div>
-  ${hero}<div style="margin:24px 0 16px">${seg}</div><div class="sec" style="margin-bottom:12px">全部话题<a>按热度</a></div><div style="display:grid;grid-template-columns:1fr 1fr;gap:14px">${S.slice(0,6).map(card).join('')}</div></main>
-  <aside style="padding:118px 0 40px"><div class="block"><div class="sec" style="font-size:17px;margin-bottom:6px">热度榜</div><div class="rank">${S.slice(0,8).map((s,i)=>`<div class="r"><b>${i+1}</b><span class="cl2" style="flex:1">${s.headline_zh}</span></div>`).join('')}</div></div>
+  <main style="padding:40px 0 60px"><div style="display:flex;justify-content:space-between;align-items:flex-end;margin-bottom:20px"><div><div class="eyebrow" style="display:flex;align-items:center;gap:6px"><span style="color:var(--t3)">${ic('back','width:15px;height:15px')}</span>10月10日 星期六<span style="color:var(--t3)">${ic('chev','width:15px;height:15px')}</span></div><div class="lt" style="font-size:40px;line-height:48px;margin-top:4px">今日热点</div><div style="font-size:13px;color:var(--t2);margin-top:2px">${S.length} 个话题 · ${d.generated_at.slice(11,16)} 更新</div></div><div style="display:flex;gap:10px"><span class="ibtn">${ic('search','width:17px;height:17px')}</span><span class="ibtn">${ic('share','width:17px;height:17px')}</span></div></div>
+  ${hero}<div style="margin:24px 0 16px">${seg}</div><div class="sec" style="margin-bottom:12px">全部话题</div><div style="display:grid;grid-template-columns:1fr 1fr;gap:14px">${S.slice(0,6).map(card).join('')}</div></main>
+  <aside style="padding:118px 0 40px"><div class="block"><div class="sec" style="font-size:17px;margin-bottom:6px">热度榜</div><div class="rank">${SH.slice(0,8).map((s,i)=>`<div class="r"><b>${i+1}</b><span class="cl2" style="flex:1">${s.headline_zh}</span></div>`).join('')}</div></div>
   <div style="font-size:12px;color:var(--t2);line-height:18px;margin:14px 4px">数据来自 X 公开内容，每天 08:50 更新。</div></aside></div>`}
  if(view==='deskdetail'){h=`<div class="dk"><aside class="side"><div class="logo" style="font-size:19px;margin:0 0 28px 12px">${logo(32)}AI 热点日报</div><nav class="nav"><a class="on">${ic('today')}今日</a><a>${ic('past')}往期</a><a>${ic('search')}搜索</a><a>${ic('me')}我的</a></nav></aside>
   <main style="padding:28px 0 60px"><div class="nb" style="margin-bottom:6px"><span class="back">${ic('back','width:22px;height:22px')}今日热点</span><div style="display:flex;gap:10px"><span class="ibtn">${ic('bm','width:17px;height:17px')}</span><span class="ibtn">${ic('share','width:17px;height:17px')}</span></div></div>${detailBody(s0).replace('class="dt"','class="dt" style="font-size:30px;line-height:38px"')}</main>

diff --git a/docs/design/tokens.css b/docs/design/tokens.css
@@ -20,6 +20,7 @@
   --ad-text: #1D1D1F;
   --ad-text-2: #6E6E73;
   --ad-text-3: #AEAEB2;
+  --ad-text-on-fill: #636369; /* 灰底（surface-2）上的文字：chips、搜索框占位，4.79:1 */
   --ad-brand: #7D5AF0;
   --ad-brand-text: #6440D6;
   --ad-brand-soft: rgb(125 90 240 / .10);
@@ -40,6 +41,7 @@
   --ad-text: #F5F5F7;
   --ad-text-2: #98989D;
   --ad-text-3: #636366;
+  --ad-text-on-fill: #A1A1A6; /* 卡片上的灰底 4.96:1；#98989D 只有 4.45 */
   --ad-brand: #A88BFF;
   --ad-brand-text: #A88BFF;
   --ad-brand-soft: rgb(168 139 255 / .18);
@@ -59,6 +61,7 @@
   --color-text: var(--ad-text);
   --color-text-2: var(--ad-text-2);
   --color-text-3: var(--ad-text-3);
+  --color-text-on-fill: var(--ad-text-on-fill);
   --color-brand: var(--ad-brand);
   --color-brand-text: var(--ad-brand-text);
   --color-brand-soft: var(--ad-brand-soft);

diff --git a/docs/design/pages-v1.md b/docs/design/pages-v1.md
@@ -1,0 +1,71 @@
+# 往期、搜索、我的 + F4 关注、F5 周报 设计稿 v1
+
+> 关联 Issue #11（F4 关注）、#12（F5 周报），需求以 PRD v6（`docs/product/PRD-v6.md`）为准，视觉以 `visual-spec-v1.md` 和 `tokens.css` 为准。
+> 内容来自真实数据 `data/2026-10-10.json`；收藏数和关注项（Anthropic、Codex、@claudeai）是示例。
+> 源文件是 [`pages-mockup.html`](pages-mockup.html)，在仓库根目录起静态服务后按 `?v=archive|trend|weekly|searchempty|search|me|follow|addfollow|followempty|nf-day|nf-story&t=light|dark` 打开。日期、星期、周编号都从数据里的 `date` 算出来，mockup 里没有写死。
+
+![往期与搜索](assets/pages/overview-tabs.png)
+![我的与 F4](assets/pages/overview-me-f4.png)
+![404](assets/pages/overview-404.png)
+
+**说明文字的颜色**：界面里所有说明性的小字（提示、上限、数据说明、序号）一律用 `text-2`，不用 `text-3`，因为 `text-3` 在浅色底上只有 2.0 到 2.8:1。`text-3` 只用于箭头、分隔这类非文字元素。灰底（`surface-2`）上的文字一律用 `text-on-fill`：浅色是 `#636369`（4.79:1），深色是 `#A1A1A6`（放在卡片上的灰底里是 4.96:1，`text-2` 只有 4.45）。底部标签栏和侧边导航的选中态，文字用 `brand-text`（`brand` 在 `#F5F5F7` 上只有 4.2），图标可以继续用 `brand`。
+
+电脑端沿用高保真稿（`hifi-v1.md`）的三栏结构：左侧导航切到对应页，中间放本页内容，最大宽度和首页一致；右侧栏在这几页里不显示。深色模式只换 token，不另出版式。
+
+## 1. 往期 `/archive`
+
+顶部大标题"往期"，下面是分段控件：**日报 / 趋势 / 周报**，分别对应 `/archive`、`?tab=trend`、`?tab=weekly`，切换时改网址，刷新后停在原来的标签。
+
+### 1.1 日报（`archive-mobile-light.png`）
+- 按月分组，组标题是"2026 年 10 月"（13px，`text-2`）。
+- 每天一行：左边是大号日期（22px/700）和周几，中间第一行写"今日三件事 · N 个话题"，第二行是 `highlights[0]`，最多两行；右边是箭头。点击进入 `/day/YYYY-MM-DD`。
+- 只有一天数据时，列表下方放一段灰色说明（见截图），不要伪造更多日期。说明里的"10 月 10 日"和 404 页里的最早日期一样，都要从 `/api/days` 取最早的一天动态生成，不能写死。
+
+### 1.2 趋势（`trend-mobile-light.png`），对应 v5 的趋势功能
+- **每日分类分布**：每天一条堆叠条，高 14、圆角 7、段间距 2，日期写在左边。分类色是固定的一组（见 `pages-mockup.html` 里的 `CC`），只在这张图里用，不进入正文的主色体系。图下面放图例，带数量。
+- **分类累计**：列表行，左边是色块，右边是"N 个话题 · 占比"。
+- **高频话题词**：列表行，右边是次数。展示时要用 PRD 3.1 的黑名单把宽泛词去掉；稿子里为了说明版式，暂时用的是原始计数。
+- 数据少于 2 天时，在第一块下面加一行提示"目前只有 1 天数据"。
+
+### 1.3 周报（`weekly-mobile-light.png`），对应 F5
+- 周选择器：左右箭头加居中标题"2026 年第 41 周"，副标题"10月5日 – 10月11日"。本周没过完时，在副标题后面加紫色的"**截至今天**"（`brand-text`）；当前周的右箭头置灰。
+- **本周 Top 10**：一个白色块，每行是名次（前 3 名用 `brand-text`，其余用 `text-2`）、标题（最多两行）、"机构 · 日期 · 热度"。点击进入 `/story/<id>`。
+- **反复出现的话题**：每行是话题词和"N 天"；没有内容时用和详情页"首次出现"相同的空状态卡片，文案是"本周还没有反复出现的话题"。
+- 本周完全没有数据时，整页只显示一个空状态卡片：本周还没有日报。
+- 底部的"保存周报图"按钮先保留位置，周报分享图不在 v6 范围内，开发可以先不做。
+
+## 2. 搜索 `/search?q=`
+
+- 初始状态（`searchempty-mobile-light.png`）：搜索框（`surface-2`，高 40，圆角 12），占位文字是"搜索话题、机构、账号"，颜色按上面灰底的规则。下面居中一行 `text-2` 说明："搜索全部日期的话题标题、摘要、机构和 X 账号"。（"热门搜索词"这次不做，贾维斯 2026-10-10 定的。）
+- 结果状态（`search-mobile-light.png`）：分类筛选做成可横向滚动的 chips，第一个是"全部 N"，用深色实底，其余 chips 是灰底，文字颜色按上面灰底的规则；下面一行灰字写"找到 N 个话题，范围是全部日期"。结果卡片和首页卡片一样，元信息里加上日期，命中的文字用 `mark` 标出（`brand-soft` 底，`brand-text` 字，圆角 4）。
+- 没有结果时：搜索框下方居中显示"没有找到和'xxx'相关的话题"，再给一个"清空"按钮。
+
+## 3. 我的 `/me`（`me-mobile-light.png` / `me-mobile-dark.png`）
+
+- 第一组列表是**收藏**和**关注**，左边放 30×30 的圆角图标，收藏用橙色、关注用紫色，右边是数量和箭头。点进去是列表页，收藏页复用搜索结果的卡片样式。
+- "**我的关注**"：用 chips 展示，前面用小灰字写类型（机构、关键词、账号），最后一个是紫色的"＋ 添加"。长按或左滑可以删除。
+- "**设置**"：外观用分段控件"浅色 / 深色"，默认浅色，不跟随系统，手动切换后记在本机；还有导出数据（v5 功能）和关于。
+- 页面底部写明：收藏和关注只存在这台设备的浏览器里，换设备不会同步。
+
+## 4. F4 关注
+
+- **首页筛选**（`follow-mobile-light.png`）：首页分类分段控件的第二项是"关注 N"。选中后，下面一行灰字写"只看关注：A、B、C"，右边的"管理"跳到 `/me`。
+- **命中高亮**：在"全部"视图里，命中关注的卡片加一圈 1.5px 的 `brand` 内描边；原来"新"或"持续热议"标签的位置换成紫色胶囊"☆ 命中的关注项"，原来的标签往后挪，不删掉。
+- **添加关注**（`addfollow-mobile-light.png`）：从底部弹出，圆角 22，遮罩是 32% 的黑色。顶部是"取消 / 添加关注 / 完成"，下面是"账号 / 机构 / 关键词"三段，再下面是输入框，底下用一行小字说明匹配规则。机构模式下提供"今天出现过的机构"作为快捷选项。底部显示"已关注 N 个，最多 50 个"，到 50 个时"完成"按钮置灰，并用这一行提示上限。
+- **空状态**（`followempty-mobile-light.png`）：一个 64×64 的紫色软底星标、标题"还没有关注任何内容"、一句说明，再加一个主按钮"添加关注"。
+
+## 5. 404 页（`overview-404.png`）
+
+日期不存在（`/day/<date>`）和话题不存在（`/story/<id>`）都返回 404 状态码，页面上沿用空状态的版式：64×64 的 `brand-soft` 底图标、20/700 的标题、15px 的 `text-2` 说明，下面是宽 200 的按钮。底部标签栏照常显示，但不高亮任何一项。
+
+| 情况 | 图标 | 标题 | 说明 | 按钮 |
+|---|---|---|---|---|
+| 日期不存在 | 日历 | 这一天没有日报 | 日报从 {最早日期} 开始，每天早上更新 | 主按钮"回到今日"跳到 `/`；次按钮"看往期"跳到 `/archive` |
+| 话题不存在 | 搜索 | 找不到这个话题 | 链接可能写错了，或者这个话题已经不在了 | 主按钮"回到今日"跳到 `/` |
+
+{最早日期} 从 `/api/days` 取最早的一天，格式是"10月10日"，不要写死。404 页的 HTML 里不输出 og 标签。
+
+## 6. 对 hifi-v1 的更正
+首页"全部话题"右边的"按热度"去掉，默认按 `rank` 排序（PRD v6 F1），`hifi-mockup.html` 里的卡片顺序也改成了按 `rank`（就是数据里的原始顺序），首页的 5 张基准截图已重新生成。电脑端右侧的"热度榜"仍然按 `heat` 排。`mobile-overview.png` 只是总览拼图，不作为基准，仍是旧版。
+
+2026-10-10 第二次对齐（按测试复核意见）：两份 mockup 都改用新 token。底栏选中态的文字用 `brand-text`，图标用 `brand`；"今日三件事"的序号和热度榜的名次用 `text-2`；详情页灰底上的分类标签、头像字母和数据说明用 `text-on-fill`。首页的分类筛选改成按当天数据生成，"关注"等 F4 上线后再加。电脑端的话题数挪到标题下面，和手机端一致。高保真的 10 张截图（首页和详情，手机和电脑，浅色和深色）连同总览图全部重新生成了。话题卡上的"新"和"持续热议"标签以接口返回的 `badge` 为准，截图里统一画成"新"，只表示样式。

diff --git a/docs/design/visual-spec-v1.md b/docs/design/visual-spec-v1.md
@@ -42,7 +42,8 @@
 | `separator` | `rgba(0,0,0,.06)` | `rgba(255,255,255,.08)` | 0.5px 分隔线 | — | — |
 | `text` | `#1D1D1F` | `#F5F5F7` | 正文、标题 | 15.46 | 15.63 |
 | `text-2` | `#6E6E73` | `#98989D` | 次要文字、时间、来源 | 4.66 | 5.93 |
-| `text-3` | `#AEAEB2` | `#636366` | 仅用于序号、占位等非关键信息 | 不用于正文 | 不用于正文 |
+| `text-3` | `#AEAEB2` | `#636366` | 只用于箭头、分隔这类非文字元素；说明文字、序号、占位一律用 `text-2` 或 `text-on-fill` | 不用于文字 | 不用于文字 |
+| `text-on-fill` | `#636369` | `#A1A1A6` | 灰底（`surface-2`）上的文字：chips、搜索框占位、中性按钮 | 4.79:1（灰底在 `#F5F5F7` 上） | 4.96:1（灰底在 `#1C1C1E` 上） |
 | `brand` | `#7D5AF0` | `#A88BFF` | 主按钮底色、图标、选中态、Logo | 白字 4.57 | 深色字 `#1C1C1E` 6.32 |
 | `brand-text` | `#6440D6` | `#A88BFF` | 紫色文字、链接、"新"标签文字 | 5.94 | 6.32 |
 | `brand-soft` | `rgba(125,90,240,.10)` | `rgba(168,139,255,.18)` | 紫色标签底、次要按钮底 | — | — |
@@ -93,7 +94,7 @@
 - **搜索框清除按钮**：16px 实心圆，底色用 `text-2`，里面的 × 用 `surface` 色。按 WCAG 对非文字元素的要求，底圆和搜索框之间、× 和底圆之间都要至少 3:1（浅色 4.07 和 5.07，深色 4.45 和 5.93），不要用 `text-3`。
 - **分段控件**（全部、关注、分类）：`surface-2` 底，选中块用 `surface` 加轻阴影（深色模式用 `#636366`）。
 - **话题卡片**：`surface` 底，圆角 18，内边距 16；从上到下依次是标签和来源、标题（Headline，最多两行）、摘要（Subhead，最多两行）、时间和"详情 ›"。
-- **底部标签栏**（手机端）：今日、往期、搜索、我的四个，图标 24px 线性风格，选中项用 `brand` 色。
+- **底部标签栏**（手机端）：今日、往期、搜索、我的四个，图标 24px 线性风格，选中项的图标用 `brand`，文字用 `brand-text`（`brand` 在 `#F5F5F7` 上只有 4.2:1，小字不达标）。
 - **图标**：线性风格，1.75px 描边，圆头圆角，和 SF Symbols 的感觉保持一致。
 - **热度走势图**：折线 2px，用 `brand` 色，下面填一层从 18% 到 0 的同色渐变；数据少于两天时不画图，改成显示"首次出现"。
 

diff --git a/docs/design/hifi-v1.md b/docs/design/hifi-v1.md
@@ -20,7 +20,7 @@
 2. **大标题**："今日热点"，看往期日期时改成"10月9日热点"。下面一行写"N 个话题 · HH:MM 更新"，时间取 `generated_at`。
 3. **今日三件事**：大卡片，圆角 22，取 `highlights` 前 3 条，序号用 `text-3`，条目之间用 0.5px 分隔线。不足 3 条时有几条显示几条，为 0 条时整块隐藏。
 4. **分类切换**：分段控件，第一项"全部"，第二项"关注"，后面是当天实际出现的分类。手机上放不下时**横向滚动**，不压缩文字。
-5. **话题列表**：标题行是"全部话题"，右边是排序方式（默认按热度）。卡片之间留 12。
+5. **话题列表**：标题行是"全部话题"，按数据里的 `rank` 排序（编辑排序，和 v5 一致，见 PRD v6 F1），标题行右边不放排序入口。卡片之间留 12。
 6. **底部标签栏**（手机端）：今日、往期、搜索、我的，带 80% 不透明底色和模糊，下面避开安全区。
 
 ### 话题卡片
